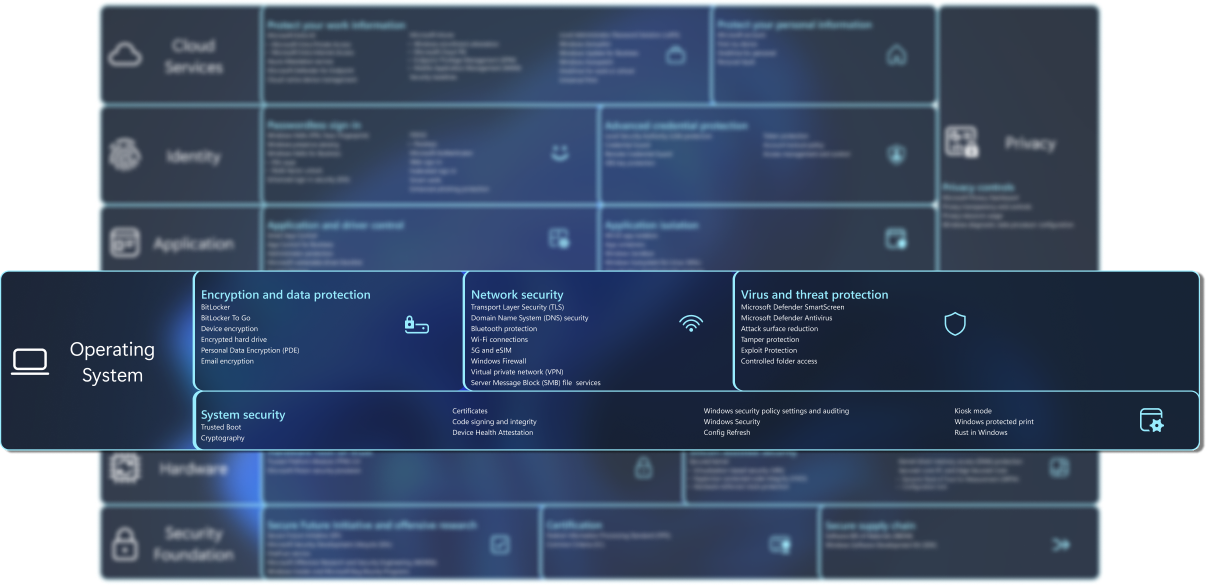
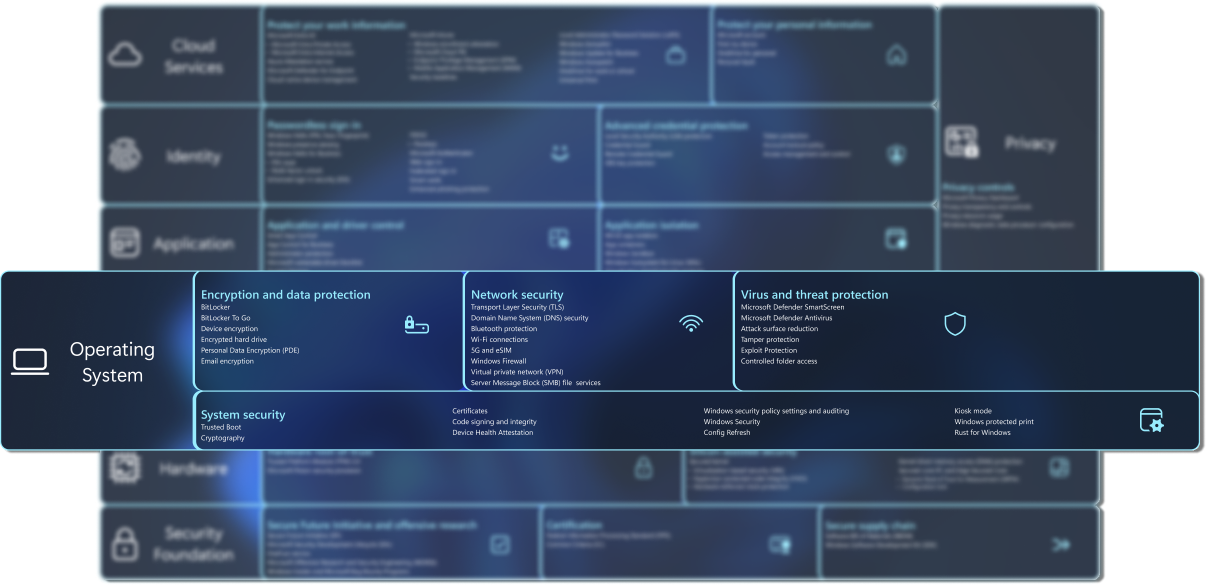
updates

diff --git a/windows/security/book/features-index.md b/windows/security/book/features-index.md
@@ -7,4 +7,4 @@ ms.date: 11/18/2024
 
 # Features index
 
-[5G and eSIM](operating-system-security-network-security.md#5g-and-esim)<br>[Access management and control](identity-protection-advanced-credential-protection.md#access-management-and-control)<br>[Account lockout policies](identity-protection-advanced-credential-protection.md#account-lockout-policies)<br>[Administrator protection](application-security-application-and-driver-control.md#-administrator-protection)<br>[App containers](application-security-application-isolation.md#app-containers)<br>[App Control for Business](application-security-application-and-driver-control.md#app-control-for-business)<br>[Attack surface reduction rules](operating-system-security-virus-and-threat-protection.md#attack-surface-reduction-rules)<br>[Azure Attestation service](cloud-services-protect-your-work-information.md#azure-attestation-service)<br>[BitLocker To Go](operating-system-security-encryption-and-data-protection.md#bitlocker-to-go)<br>[BitLocker](operating-system-security-encryption-and-data-protection.md#bitlocker)<br>[Bluetooth protection](operating-system-security-network-security.md#bluetooth-protection)<br>[Certificates](operating-system-security-system-security.md#certificates)<br>[Cloud-native device management](cloud-services-protect-your-work-information.md#cloud-native-device-management)<br>[Code signing and integrity](operating-system-security-system-security.md#code-signing-and-integrity)<br>[Common Criteria (CC)](security-foundation-certification.md#common-criteria-cc)<br>[Config Refresh](operating-system-security-system-security.md#-config-refresh)<br>[Controlled folder access](operating-system-security-virus-and-threat-protection.md#controlled-folder-access)<br>[Credential Guard](identity-protection-advanced-credential-protection.md#credential-guard)<br>[Cryptography](operating-system-security-system-security.md#cryptography)<br>[Device Encryption](operating-system-security-encryption-and-data-protection.md#device-encryption)<br>[Device Health Attestation](operating-system-security-system-security.md#device-health-attestation)<br>[Domain Name System (DNS) security](operating-system-security-network-security.md#domain-name-system-dns-security)<br>[Email encryption](operating-system-security-encryption-and-data-protection.md#email-encryption)<br>[Encrypted hard drive](operating-system-security-encryption-and-data-protection.md#encrypted-hard-drive)<br>[Enhanced phishing protection in Microsoft Defender SmartScreen](identity-protection-passwordless-sign-in.md#enhanced-phishing-protection-in-microsoft-defender-smartscreen)<br>[Enhanced Sign-in Security (ESS)](identity-protection-passwordless-sign-in.md#enhanced-sign-in-security-ess)<br>[Exploit Protection](operating-system-security-virus-and-threat-protection.md#exploit-protection)<br>[Federal Information Processing Standard (FIPS)](security-foundation-certification.md#federal-information-processing-standard-fips)<br>[Federated sign-in](identity-protection-passwordless-sign-in.md#federated-sign-in)<br>[FIDO2](identity-protection-passwordless-sign-in.md#fido2)<br>[Find my device](cloud-services-protect-your-personal-information.md#find-my-device)<br>[Kernel direct memory access (DMA) protection](hardware-security-silicon-assisted-security.md#kernel-direct-memory-access-dma-protection)<br>[Kiosk mode](operating-system-security-system-security.md#kiosk-mode)<br>[Local Security Authority (LSA) protection](identity-protection-advanced-credential-protection.md#local-security-authority-lsa-protection)<br>[Microsoft account](cloud-services-protect-your-personal-information.md#microsoft-account)<br>[Microsoft Authenticator](identity-protection-passwordless-sign-in.md#microsoft-authenticator)<br>[Microsoft Cloud PKI](cloud-services-protect-your-work-information.md#microsoft-cloud-pki)<br>[Microsoft Defender Antivirus](operating-system-security-virus-and-threat-protection.md#microsoft-defender-antivirus)<br>[Microsoft Defender for Endpoint](cloud-services-protect-your-work-information.md#microsoft-defender-for-endpoint)<br>[Microsoft Defender SmartScreen](operating-system-security-virus-and-threat-protection.md#microsoft-defender-smartscreen)<br>[Microsoft Entra ID](cloud-services-protect-your-work-information.md#microsoft-entra-id)<br>[Microsoft Intune](cloud-services-protect-your-work-information.md#microsoft-intune)<br>[Microsoft Offensive Research and Security Engineering](security-foundation-offensive-research.md#microsoft-offensive-research-and-security-engineering)<br>[Microsoft Pluton security processor](hardware-security-hardware-root-of-trust.md#microsoft-pluton-security-processor)<br>[Microsoft Privacy Dashboard](privacy-controls.md#microsoft-privacy-dashboard)<br>[Microsoft Security Development Lifecycle (SDL)](security-foundation-offensive-research.md#microsoft-security-development-lifecycle-sdl)<br>[Microsoft vulnerable driver blocklist](application-security-application-and-driver-control.md#microsoft-vulnerable-driver-blocklist)<br>[Network protection](operating-system-security-virus-and-threat-protection.md#network-protection)<br>[OneDrive for personal](cloud-services-protect-your-personal-information.md#onedrive-for-personal)<br>[OneDrive for work or school](cloud-services-protect-your-work-information.md#onedrive-for-work-or-school)<br>[OneFuzz service](security-foundation-offensive-research.md#onefuzz-service)<br>[Personal Data Encryption (PDE)](operating-system-security-encryption-and-data-protection.md#personal-data-encryption-pde)<br>[Personal Vault](cloud-services-protect-your-personal-information.md#personal-vault)<br>[Privacy resource usage](privacy-controls.md#privacy-resource-usage)<br>[Privacy transparency and controls](privacy-controls.md#privacy-transparency-and-controls)<br>[Remote Credential Guard](identity-protection-advanced-credential-protection.md#remote-credential-guard)<br>[Remote Wipe](cloud-services-protect-your-work-information.md#remote-wipe)<br>[Rust in Windows](operating-system-security-system-security.md#-rust-in-windows)<br>[Secure Future Initiative (SFI)](security-foundation-offensive-research.md#secure-future-initiative-sfi)<br>[Secured kernel](hardware-security-silicon-assisted-security.md#secured-kernel)<br>[Secured-core PC and Edge Secured-Core](hardware-security-silicon-assisted-security.md#secured-core-pc-and-edge-secured-core)<br>[Security baselines](cloud-services-protect-your-work-information.md#security-baselines)<br>[Server Message Block file services](operating-system-security-network-security.md#server-message-block-file-services)<br>[Smart App Control](application-security-application-and-driver-control.md#smart-app-control)<br>[Smart cards](identity-protection-passwordless-sign-in.md#smart-cards)<br>[Software bill of materials (SBOM)](security-foundation-secure-supply-chain.md#software-bill-of-materials-sbom)<br>[Tamper protection](operating-system-security-virus-and-threat-protection.md#tamper-protection)<br>[Token protection (preview)](identity-protection-advanced-credential-protection.md#token-protection-preview)<br>[Transport Layer Security (TLS)](operating-system-security-network-security.md#transport-layer-security-tls)<br>[Trusted Boot (Secure Boot + Measured Boot)](operating-system-security-system-security.md#trusted-boot-secure-boot--measured-boot)<br>[Trusted Platform Module (TPM)](hardware-security-hardware-root-of-trust.md#trusted-platform-module-tpm)<br>[Trusted Signing](application-security-application-and-driver-control.md#-trusted-signing)<br>[Universal Print](cloud-services-protect-your-work-information.md#universal-print)<br>[VBS key protection](identity-protection-advanced-credential-protection.md#-vbs-key-protection)<br>[Virtual private networks (VPN)](operating-system-security-network-security.md#virtual-private-networks-vpn)<br>[Virtualization-based security enclaves](application-security-application-isolation.md#-virtualization-based-security-enclaves)<br>[Web sign-in](identity-protection-passwordless-sign-in.md#web-sign-in)<br>[Wi-Fi connections](operating-system-security-network-security.md#wi-fi-connections)<br>[Win32 app isolation](application-security-application-isolation.md#-win32-app-isolation)<br>[Windows Autopatch](cloud-services-protect-your-work-information.md#windows-autopatch)<br>[Windows Autopilot](cloud-services-protect-your-work-information.md#windows-autopilot)<br>[Windows diagnostic data processor configuration](privacy-controls.md#windows-diagnostic-data-processor-configuration)<br>[Windows enrollment attestation](cloud-services-protect-your-work-information.md#windows-enrollment-attestation)<br>[Windows Firewall](operating-system-security-network-security.md#windows-firewall)<br>[Windows Hello for Business](identity-protection-passwordless-sign-in.md#windows-hello-for-business)<br>[Windows Hello](identity-protection-passwordless-sign-in.md#windows-hello)<br>[Windows Insider and Microsoft Bug Bounty Programs](security-foundation-offensive-research.md#windows-insider-and-microsoft-bug-bounty-programs)<br>[Windows Local Administrator Password Solution (LAPS)](cloud-services-protect-your-work-information.md#windows-local-administrator-password-solution-laps)<br>[Windows presence sensing](identity-protection-passwordless-sign-in.md#windows-presence-sensing)<br>[Windows protected print](operating-system-security-system-security.md#-windows-protected-print)<br>[Windows Sandbox](application-security-application-isolation.md#windows-sandbox)<br>[Windows security policy settings and auditing](operating-system-security-system-security.md#windows-security-policy-settings-and-auditing)<br>[Windows security](operating-system-security-system-security.md#windows-security)<br>[Windows Software Development Kit (SDK)](security-foundation-secure-supply-chain.md#windows-software-development-kit-sdk)<br>[Windows Subsystem for Linux (WSL)](application-security-application-isolation.md#windows-subsystem-for-linux-wsl)<br>[Windows Update for Business](cloud-services-protect-your-work-information.md#windows-update-for-business)
+[5G and eSIM](operating-system-security-network-security.md#5g-and-esim)<br>[Access management and control](identity-protection-advanced-credential-protection.md#access-management-and-control)<br>[Account lockout policies](identity-protection-advanced-credential-protection.md#account-lockout-policies)<br>[Administrator protection](application-security-application-and-driver-control.md#-administrator-protection)<br>[App containers](application-security-application-isolation.md#app-containers)<br>[App Control for Business](application-security-application-and-driver-control.md#app-control-for-business)<br>[Attack surface reduction rules](operating-system-security-virus-and-threat-protection.md#attack-surface-reduction-rules)<br>[Azure Attestation service](cloud-services-protect-your-work-information.md#azure-attestation-service)<br>[BitLocker To Go](operating-system-security-encryption-and-data-protection.md#bitlocker-to-go)<br>[BitLocker](operating-system-security-encryption-and-data-protection.md#bitlocker)<br>[Bluetooth protection](operating-system-security-network-security.md#bluetooth-protection)<br>[Certificates](operating-system-security-system-security.md#certificates)<br>[Cloud-native device management](cloud-services-protect-your-work-information.md#cloud-native-device-management)<br>[Code signing and integrity](operating-system-security-system-security.md#code-signing-and-integrity)<br>[Common Criteria (CC)](security-foundation-certification.md#common-criteria-cc)<br>[Config Refresh](operating-system-security-system-security.md#-config-refresh)<br>[Controlled folder access](operating-system-security-virus-and-threat-protection.md#controlled-folder-access)<br>[Credential Guard](identity-protection-advanced-credential-protection.md#credential-guard)<br>[Cryptography](operating-system-security-system-security.md#cryptography)<br>[Device Encryption](operating-system-security-encryption-and-data-protection.md#device-encryption)<br>[Device Health Attestation](operating-system-security-system-security.md#device-health-attestation)<br>[Domain Name System (DNS) security](operating-system-security-network-security.md#domain-name-system-dns-security)<br>[Email encryption](operating-system-security-encryption-and-data-protection.md#email-encryption)<br>[Encrypted hard drive](operating-system-security-encryption-and-data-protection.md#encrypted-hard-drive)<br>[Enhanced phishing protection in Microsoft Defender SmartScreen](identity-protection-passwordless-sign-in.md#enhanced-phishing-protection-in-microsoft-defender-smartscreen)<br>[Enhanced Sign-in Security (ESS)](identity-protection-passwordless-sign-in.md#enhanced-sign-in-security-ess)<br>[Exploit Protection](operating-system-security-virus-and-threat-protection.md#exploit-protection)<br>[Federal Information Processing Standard (FIPS)](security-foundation-certification.md#federal-information-processing-standard-fips)<br>[Federated sign-in](identity-protection-passwordless-sign-in.md#federated-sign-in)<br>[FIDO2](identity-protection-passwordless-sign-in.md#fido2)<br>[Find my device](cloud-services-protect-your-personal-information.md#find-my-device)<br>[Kernel direct memory access (DMA) protection](hardware-security-silicon-assisted-security.md#kernel-direct-memory-access-dma-protection)<br>[Kiosk mode](operating-system-security-system-security.md#kiosk-mode)<br>[Local Security Authority (LSA) protection](identity-protection-advanced-credential-protection.md#local-security-authority-lsa-protection)<br>[Microsoft account](cloud-services-protect-your-personal-information.md#microsoft-account)<br>[Microsoft Authenticator](identity-protection-passwordless-sign-in.md#microsoft-authenticator)<br>[Microsoft Cloud PKI](cloud-services-protect-your-work-information.md#microsoft-cloud-pki)<br>[Microsoft Defender Antivirus](operating-system-security-virus-and-threat-protection.md#microsoft-defender-antivirus)<br>[Microsoft Defender for Endpoint](cloud-services-protect-your-work-information.md#microsoft-defender-for-endpoint)<br>[Microsoft Defender SmartScreen](operating-system-security-virus-and-threat-protection.md#microsoft-defender-smartscreen)<br>[Microsoft Entra ID](cloud-services-protect-your-work-information.md#microsoft-entra-id)<br>[Microsoft Intune](cloud-services-protect-your-work-information.md#microsoft-intune)<br>[Microsoft Offensive Research and Security Engineering](security-foundation-offensive-research.md#microsoft-offensive-research-and-security-engineering)<br>[Microsoft Pluton security processor](hardware-security-hardware-root-of-trust.md#microsoft-pluton-security-processor)<br>[Microsoft Privacy Dashboard](privacy-controls.md#microsoft-privacy-dashboard)<br>[Microsoft Security Development Lifecycle (SDL)](security-foundation-offensive-research.md#microsoft-security-development-lifecycle-sdl)<br>[Microsoft vulnerable driver blocklist](application-security-application-and-driver-control.md#microsoft-vulnerable-driver-blocklist)<br>[Network protection](operating-system-security-virus-and-threat-protection.md#network-protection)<br>[OneDrive for personal](cloud-services-protect-your-personal-information.md#onedrive-for-personal)<br>[OneDrive for work or school](cloud-services-protect-your-work-information.md#onedrive-for-work-or-school)<br>[OneFuzz service](security-foundation-offensive-research.md#onefuzz-service)<br>[Personal Data Encryption (PDE)](operating-system-security-encryption-and-data-protection.md#personal-data-encryption-pde)<br>[Personal Vault](cloud-services-protect-your-personal-information.md#personal-vault)<br>[Privacy resource usage](privacy-controls.md#privacy-resource-usage)<br>[Privacy transparency and controls](privacy-controls.md#privacy-transparency-and-controls)<br>[Remote Credential Guard](identity-protection-advanced-credential-protection.md#remote-credential-guard)<br>[Remote Wipe](cloud-services-protect-your-work-information.md#remote-wipe)<br>[Rust for Windows](operating-system-security-system-security.md#-rust-for-windows)<br>[Secure Future Initiative (SFI)](security-foundation-offensive-research.md#secure-future-initiative-sfi)<br>[Secured kernel](hardware-security-silicon-assisted-security.md#secured-kernel)<br>[Secured-core PC and Edge Secured-Core](hardware-security-silicon-assisted-security.md#secured-core-pc-and-edge-secured-core)<br>[Security baselines](cloud-services-protect-your-work-information.md#security-baselines)<br>[Server Message Block file services](operating-system-security-network-security.md#server-message-block-file-services)<br>[Smart App Control](application-security-application-and-driver-control.md#smart-app-control)<br>[Smart cards](identity-protection-passwordless-sign-in.md#smart-cards)<br>[Software bill of materials (SBOM)](security-foundation-secure-supply-chain.md#software-bill-of-materials-sbom)<br>[Tamper protection](operating-system-security-virus-and-threat-protection.md#tamper-protection)<br>[Token protection (preview)](identity-protection-advanced-credential-protection.md#token-protection-preview)<br>[Transport Layer Security (TLS)](operating-system-security-network-security.md#transport-layer-security-tls)<br>[Trusted Boot (Secure Boot + Measured Boot)](operating-system-security-system-security.md#trusted-boot-secure-boot--measured-boot)<br>[Trusted Platform Module (TPM)](hardware-security-hardware-root-of-trust.md#trusted-platform-module-tpm)<br>[Trusted Signing](application-security-application-and-driver-control.md#-trusted-signing)<br>[Universal Print](cloud-services-protect-your-work-information.md#universal-print)<br>[VBS key protection](identity-protection-advanced-credential-protection.md#-vbs-key-protection)<br>[Virtual private networks (VPN)](operating-system-security-network-security.md#virtual-private-networks-vpn)<br>[Virtualization-based security enclaves](application-security-application-isolation.md#-virtualization-based-security-enclaves)<br>[Web sign-in](identity-protection-passwordless-sign-in.md#web-sign-in)<br>[Wi-Fi connections](operating-system-security-network-security.md#wi-fi-connections)<br>[Win32 app isolation](application-security-application-isolation.md#-win32-app-isolation)<br>[Windows Autopatch](cloud-services-protect-your-work-information.md#windows-autopatch)<br>[Windows Autopilot](cloud-services-protect-your-work-information.md#windows-autopilot)<br>[Windows diagnostic data processor configuration](privacy-controls.md#windows-diagnostic-data-processor-configuration)<br>[Windows enrollment attestation](cloud-services-protect-your-work-information.md#windows-enrollment-attestation)<br>[Windows Firewall](operating-system-security-network-security.md#windows-firewall)<br>[Windows Hello for Business](identity-protection-passwordless-sign-in.md#windows-hello-for-business)<br>[Windows Hello](identity-protection-passwordless-sign-in.md#windows-hello)<br>[Windows Insider and Microsoft Bug Bounty Programs](security-foundation-offensive-research.md#windows-insider-and-microsoft-bug-bounty-programs)<br>[Windows Local Administrator Password Solution (LAPS)](cloud-services-protect-your-work-information.md#windows-local-administrator-password-solution-laps)<br>[Windows presence sensing](identity-protection-passwordless-sign-in.md#windows-presence-sensing)<br>[Windows protected print](operating-system-security-system-security.md#-windows-protected-print)<br>[Windows Sandbox](application-security-application-isolation.md#windows-sandbox)<br>[Windows security policy settings and auditing](operating-system-security-system-security.md#windows-security-policy-settings-and-auditing)<br>[Windows security](operating-system-security-system-security.md#windows-security)<br>[Windows Software Development Kit (SDK)](security-foundation-secure-supply-chain.md#windows-software-development-kit-sdk)<br>[Windows Subsystem for Linux (WSL)](application-security-application-isolation.md#windows-subsystem-for-linux-wsl)<br>[Windows Update for Business](cloud-services-protect-your-work-information.md#windows-update-for-business)

diff --git a/windows/security/book/operating-system-security-system-security.md b/windows/security/book/operating-system-security-system-security.md
@@ -164,7 +164,7 @@ Windows protected print is designed to work with Mopria certified printers only.
 - [Windows protected print][LINK-10]
 - [New, modern, and secure print experience from Windows][LINK-11]
 
-## :::image type="icon" source="images/new-button-title.svg" border="false"::: Rust in Windows
+## :::image type="icon" source="images/new-button-title.svg" border="false"::: Rust for Windows
 
 Rust is a modern programming language known for its focus on safety, performance, and concurrency. It was designed to prevent common programming errors such as null pointer dereferencing and buffer overflows, which can lead to security vulnerabilities and crashes. Rust achieves this through its unique ownership system, which ensures memory safety without needing a garbage collector.
 We're expanding the integration of Rust into the Windows kernel to enhance the safety and reliability of Windows' codebase. This strategic move underscores our commitment to adopting modern technologies to improve the quality and security of Windows.

diff --git a/windows/security/book/conclusion.md b/windows/security/book/conclusion.md
@@ -17,7 +17,7 @@ New:
 
 - [Administrator protection](application-security-application-and-driver-control.md#-administrator-protection)
 - [Config Refresh](operating-system-security-system-security.md#-config-refresh)
-- [Rust in Windows](operating-system-security-system-security.md#-rust-in-windows)
+- [Rust for Windows](operating-system-security-system-security.md#-rust-for-windows)
 - [Trusted Signing](application-security-application-and-driver-control.md#-trusted-signing)
 - [VBS key protection](identity-protection-advanced-credential-protection.md#-vbs-key-protection)
 - [Virtualization-based security enclaves](application-security-application-isolation.md#-virtualization-based-security-enclaves)
